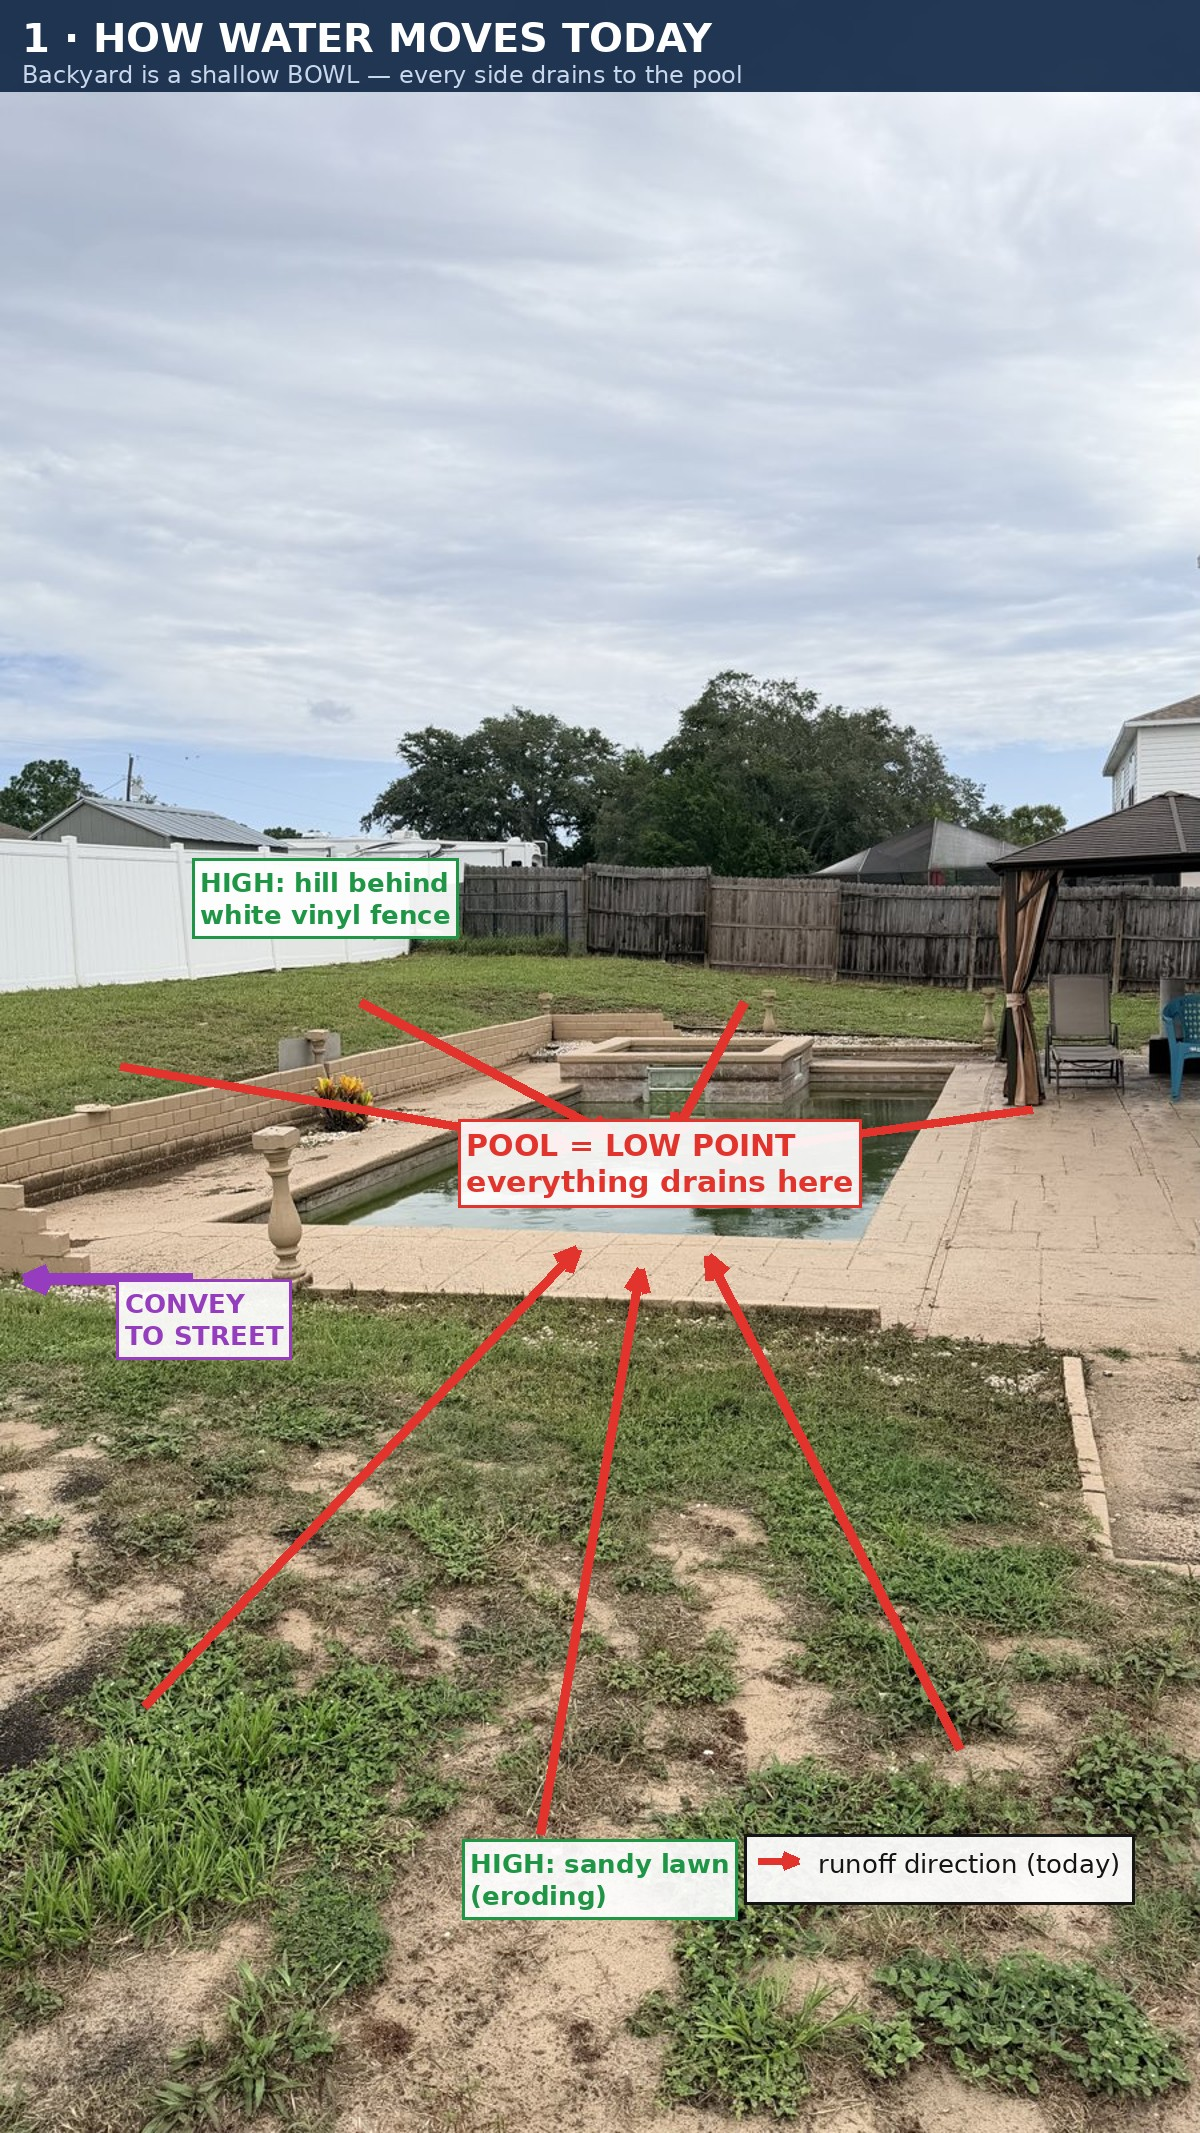
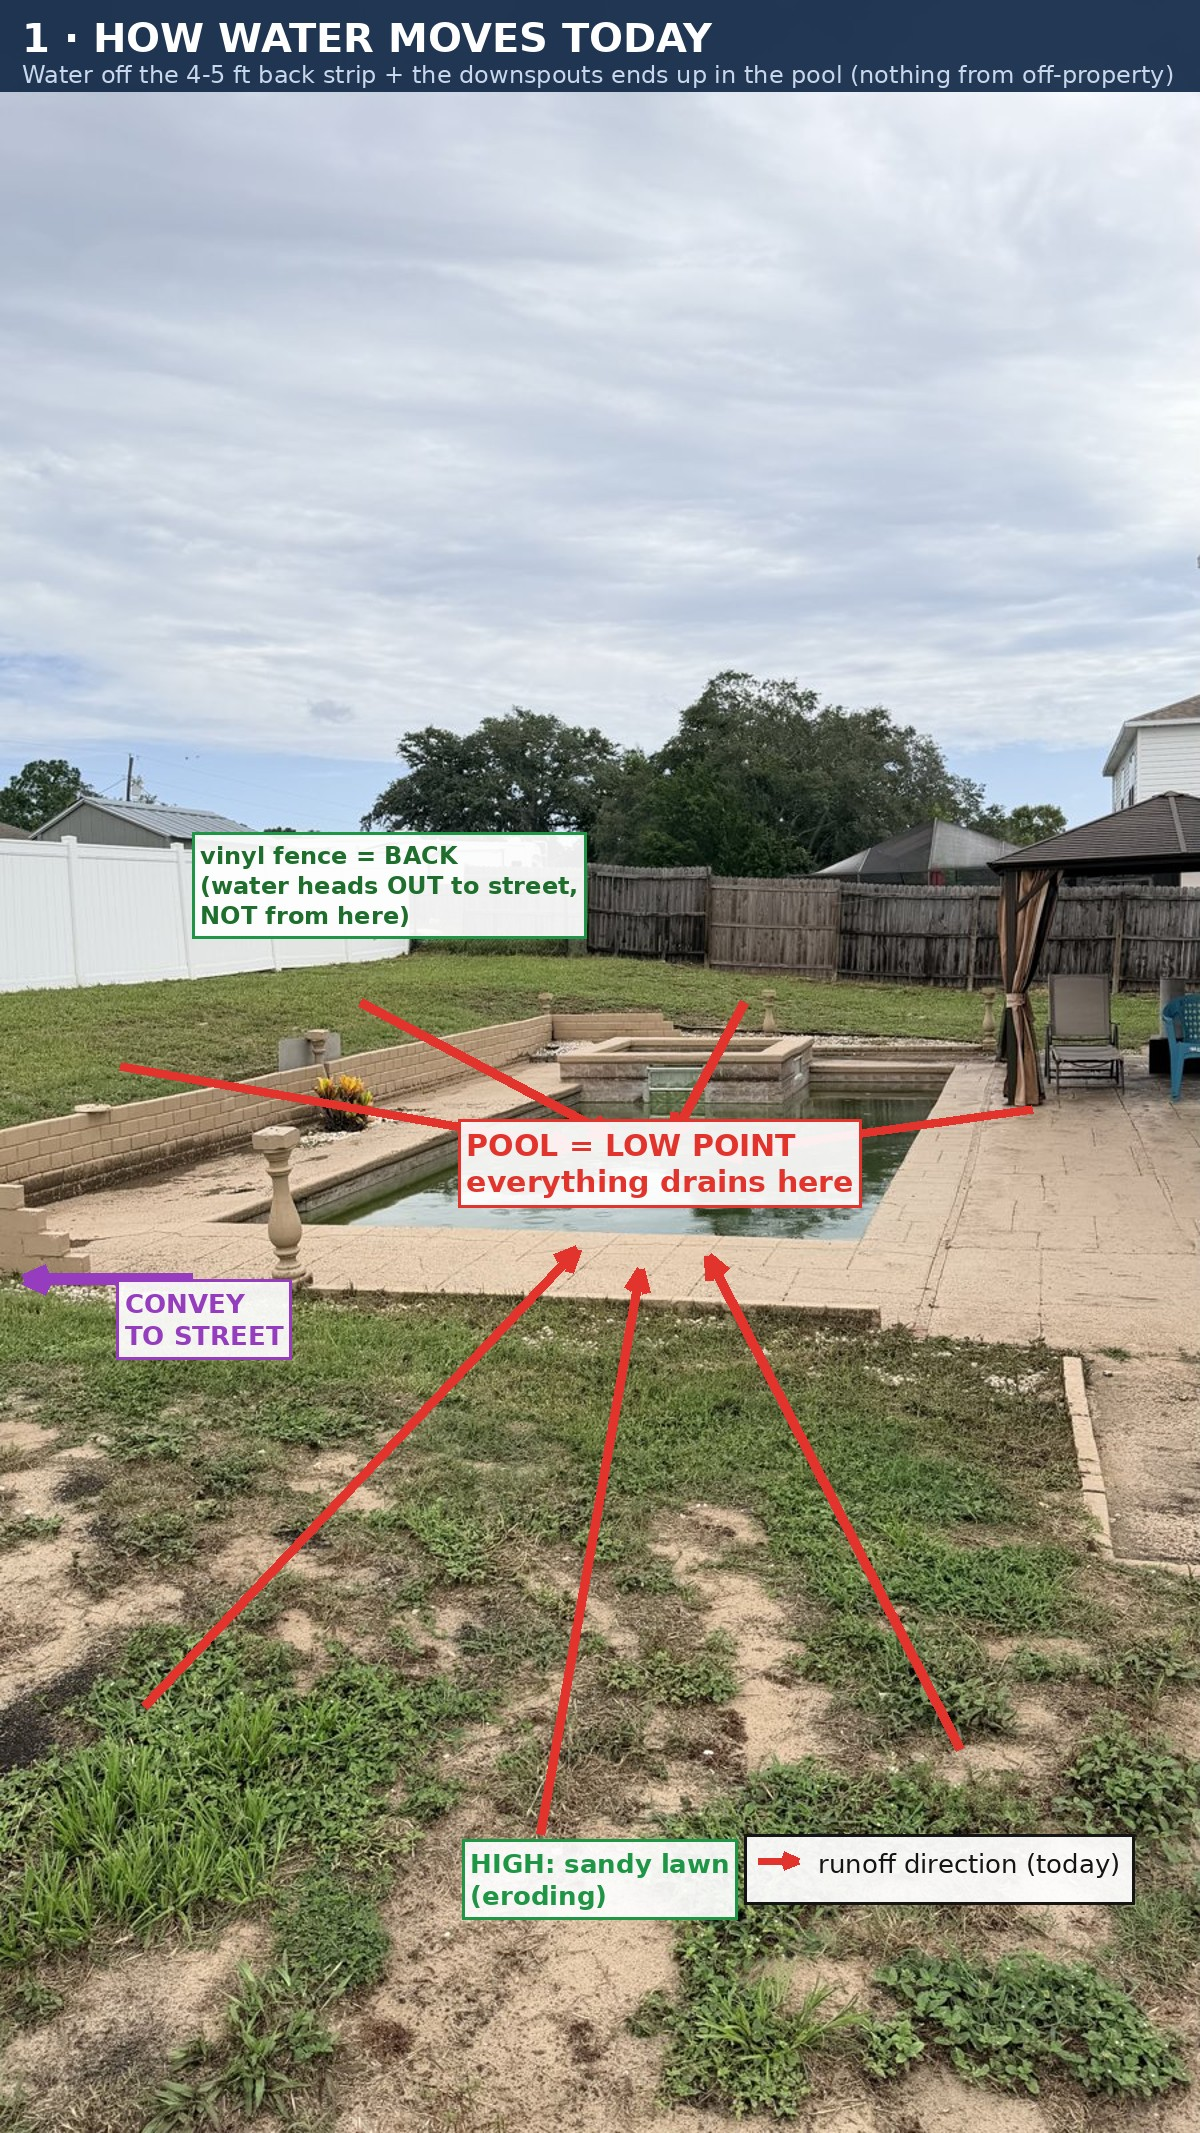
Revise plan: correct water source (back strip + downspouts, no offsite hill)
Owner correction: water is not offsite (nothing from behind the vinyl
fence). It starts ~4-5 ft from the retaining wall (back strip) and rolls
into the pool; the two back-corner downspouts (neighbor-side by the pump)
are the other source. Street outlet confirmed by hose test.

- Add Report 06 as the current/authoritative plan: simplified 4-part fix
  (catch drain at the retaining wall + regrade the strip + capture
  downspouts + pipe to street + re-sod). Drops the fence-line interceptor.
- Redraw master plan as v2 (design_0) around the real sources; add
  side-view cross-section (design_5); fix stale label on picture 1.
- README: mark Report 06 authoritative; add corrections-log entry.

Claude-Session: https://claude.ai/code/session_01VQhSLNj1H3uwbdHakN29g6

diff --git a/pool-drainage-improvement-plan/06-REVISED-plan-current.md b/pool-drainage-improvement-plan/06-REVISED-plan-current.md
@@ -1,0 +1,93 @@
+# Pool Drainage Improvement Plan
+## Report 06 — REVISED PLAN (current / authoritative)
+
+**Prepared by:** Residential Drainage Engineer (stormwater management, Florida)
+**Date:** 2026-07-19
+**Status:** This report **supersedes the offsite-interceptor approach** in Reports 02–05. Where they differ, this one wins.
+
+---
+
+### Corrected diagnosis (from owner walk-through + hose test)
+
+The earlier reports assumed an **offsite hill behind the vinyl fence** pushing water onto the property. **That is wrong.** The corrected picture:
+
+- **No offsite water.** Nothing comes from behind/under the white vinyl fence. The vinyl fence is the **back property line**, and water there actually heads **out toward the street** (which is on the **left**).
+- **Source #1 — the back strip.** Rain begins rolling about **4–5 ft out from the pool's retaining wall** (the back/fence side) and runs **over the wall into the pool.** Only that ~4–5 ft strip drains to the pool; beyond it, water goes to the fence/street on its own.
+- **Source #2 — the downspouts.** Gutter downspouts at the **back corners of the house (~2–3 ft off the wall)** dump roof water right by the deck. The **neighbor-side downspout is by the pool pump** — the same spot the sediment sump will go.
+- **No existing drain.** Both sides of the pool are decorative **rock + edge** the owner tried to use; it doesn't work.
+- **Outlet = street (left), confirmed** by hose test (water runs toward the street on the tested side). Gravity works; **no dry well, no pump.**
+
+See `design/design_0_master_plan.jpg` (v2) and `design/design_5_xsection.jpg`.
+
+---
+
+### The revised fix — 4 parts + sod (much smaller than before)
+
+| # | Element | What it does |
+|---|---|---|
+| **①** | **Catch drain at the retaining wall** (channel/trench drain along the deck's back edge, buried, grate flush, with a sediment **sump**) | Grabs the 4–5 ft strip's runoff before it goes over the wall |
+| **②** | **Regrade the 4–5 ft back strip** | Makes that strip fall **into** the catch drain instead of over the wall |
+| **③** | **Capture both downspouts** (tie into solid pipe; neighbor-side one ties in at the sump by the pump) | Removes roof water from the deck area |
+| **④** | **Pipe to the street** (solid pipe from the sump, around the pool, to a pop-up at the curb) | Carries it all off-site by gravity |
+| **⑤** | **Re-sod the bare strip** | Stops the sand at the source |
+
+**Dropped from the old plan:** the fence-line **offsite interceptor (old ①)** — not needed, since no water comes from off-property. That was the biggest, most expensive piece. This revision is **smaller, cheaper, and faster.**
+
+---
+
+### Shorter measurement worksheet (only 4 numbers now)
+
+| # | Measure | Your number |
+|---|---|---|
+| **B** | Length of the pool's **back (retaining-wall) edge** to line with the catch drain | _____ ft |
+| **C** | **Back strip** area to regrade + re-sod ( B × ~5 ft ) | _____ sf |
+| **D** | Downspouts to capture + distance from each to the sump | ___ ea / _____ ft |
+| **E** | Distance from the **sump (by the pump)** around the pool to the **street** | _____ ft |
+
+---
+
+# FORMAT A — DIY SHOPPING LIST *(street outlet; example totals for B=30, C=150, D=2@_, E=70)*
+
+**① Catch drain at the retaining wall**
+- [ ] Channel/trench drain w/ grate (4–6", ~40" sections) — **= B** *(30 ft ≈ 9 sections)*
+- [ ] Bagged concrete to bed/haunch it — **~0.6 cu ft/ft × B** *(~15–18 bags 60-lb)*
+- [ ] 1 catch basin **with deep sediment sump** + atrium/beehive grate
+
+**② Regrade the back strip**
+- [ ] Screened fill/sand to set the fall into the drain — *(a few wheelbarrows to ~¼ yd³)*
+
+**③ Downspout capture**
+- [ ] Downspout-to-pipe adapters — **= D** *(2)*
+- [ ] 3–4" **solid** pipe — **= sum of D distances** · elbows *(2–4)*
+
+**④ Pipe to the street**
+- [ ] 4" **solid** SDR-35/HDPE pipe — **= E** *(70 ft)*
+- [ ] 1 in-line cleanout · 1 pop-up emitter (street end) · couplers, PVC primer + cement, straps
+
+**⑤ Re-sod**
+- [ ] Sod — **= C** *(150 sf)* · erosion-control blanket if the strip is steep · 6" staples
+
+**Tools:** marking paint · mason's line + line level (or laser) · shovels/trencher (sandy soil digs easy) · plate compactor · pipe saw · drill.
+**Order of work:** 811 locate → set sump + street pipe (slope ¼"/ft, 1% min) → catch drain at wall → tie in downspouts → regrade strip → sod → **flood-test.**
+
+---
+
+# FORMAT B — CONTRACTOR SCOPE OF WORK *(hand to 2–3 bidders)*
+
+**Project:** Stop backyard runoff/sediment from entering the pool. Corner lot, sandy soil, gravity discharge to the **street (left)** — confirmed. **No offsite water; no existing drain.**
+
+**Furnish & install:**
+1. **Catch drain at the retaining wall (B ≈ *30 LF*):** remove existing decorative rock at the deck's back edge; install channel drain w/ grate set flush in concrete along the retaining wall; tie to a **catch basin with a deep sediment sump** at the low end (by the pool pump).
+2. **Regrade the back strip (C ≈ *150 SF*, ~4–5 ft wide):** re-grade to positive fall **into** the catch drain — no flow over the wall, no ponding; import screened fill as needed; compact.
+3. **Downspout capture (D = *2*):** connect both back-corner downspouts to solid pipe; neighbor-side ties in at the sump.
+4. **Convey to street (E ≈ *70 LF*):** 4" solid SDR-35, ¼"/ft target (1% min), in-line cleanout, **pop-up emitter** at the right-of-way; comply with municipal discharge rules.
+5. **Re-sod (C):** sod all disturbed/bare areas; erosion blanket on any slope.
+6. **Test & closeout:** flood-test at the back strip; demonstrate flow to the street with **no water reaching the pool**; provide as-built sketch.
+
+**Compare bids on:** licensed/insured · pulls any right-of-way permit · confirms **811** · line-item pricing per items 1–6 · stated pipe/stone/slope specs · workmanship warranty (length?) · restoration (sod, haul-off) included.
+
+**Hybrid split option:** DIY items 3 + 5 (downspouts + sod); hire items 1 + 4 (channel drain in concrete + street line); item 2 either way.
+
+---
+
+*Preliminary. Final quantities depend on the 4 worksheet numbers. Call 811 and confirm municipal right-of-way discharge rules before construction.*

diff --git a/pool-drainage-improvement-plan/README.md b/pool-drainage-improvement-plan/README.md
@@ -17,9 +17,13 @@ the street (the intended outlet) is on the opposite (left) side.
 | 03 | `03-final-fix-plan.md` — consolidated 6-part fix for **zero flow into the pool**, refined with the full 57-photo survey (bowl grading, roof downspouts, failing deck drain) | ✅ Complete |
 | 04 | `04-materials-and-dig-day.md` — materials takeoff (both outlets), measure-it-yourself worksheet, dig-day sequence, DIY-vs-contractor split | ✅ Complete (finalize quantities from worksheet) |
 | 05 | `05-final-DIY-and-contractor.md` — **final build package: DIY shopping list + contractor scope of work**, street outlet confirmed | ✅ Complete (finalize quantities from worksheet) |
-| — | `design/` — visual design set: master plan, runoff diagnosis, deck fix, sediment detail, before/after | ✅ Complete |
+| **06** | `06-REVISED-plan-current.md` — **★ CURRENT / AUTHORITATIVE plan.** Corrected sources (back strip + downspouts, no offsite hill); simplified 4-part fix; DIY + contractor lists | ✅ Complete |
+| — | `design/` — visual set: master plan **v2**, runoff diagnosis, deck fix, sediment detail, before/after, side-view cross-section | ✅ Complete |
+
+> **Read Report 06 first** — it supersedes the offsite-interceptor approach in Reports 02–05.
 
 ## Corrections log
+- **2026-07-19 (b)** — Owner corrected the water source: **there is NO offsite hill.** Water starts ~4–5 ft from the retaining wall (back strip) and rolls into the pool; the two **downspouts** (back house corners, neighbor-side by the pump) are the other source. **Dropped the fence-line interceptor** — the plan is now a smaller 4-part fix (catch drain at wall + regrade strip + capture downspouts + pipe to street + sod). Master plan redrawn as **v2**; picture 1 label fixed; **Report 06** is now authoritative.
 - **2026-07-19** — Owner walk-through + hose test:
   - **Outlet confirmed = STREET (left).** Hose test showed water running toward the street on the reachable side → gravity discharge works; **no dry well needed.**
   - **No existing deck drain.** Both sides of the pool are decorative **rock + edge** (tried for drainage, didn't work); element ② is new construction. Reports 01–03 and design pictures 2 & 3 corrected.